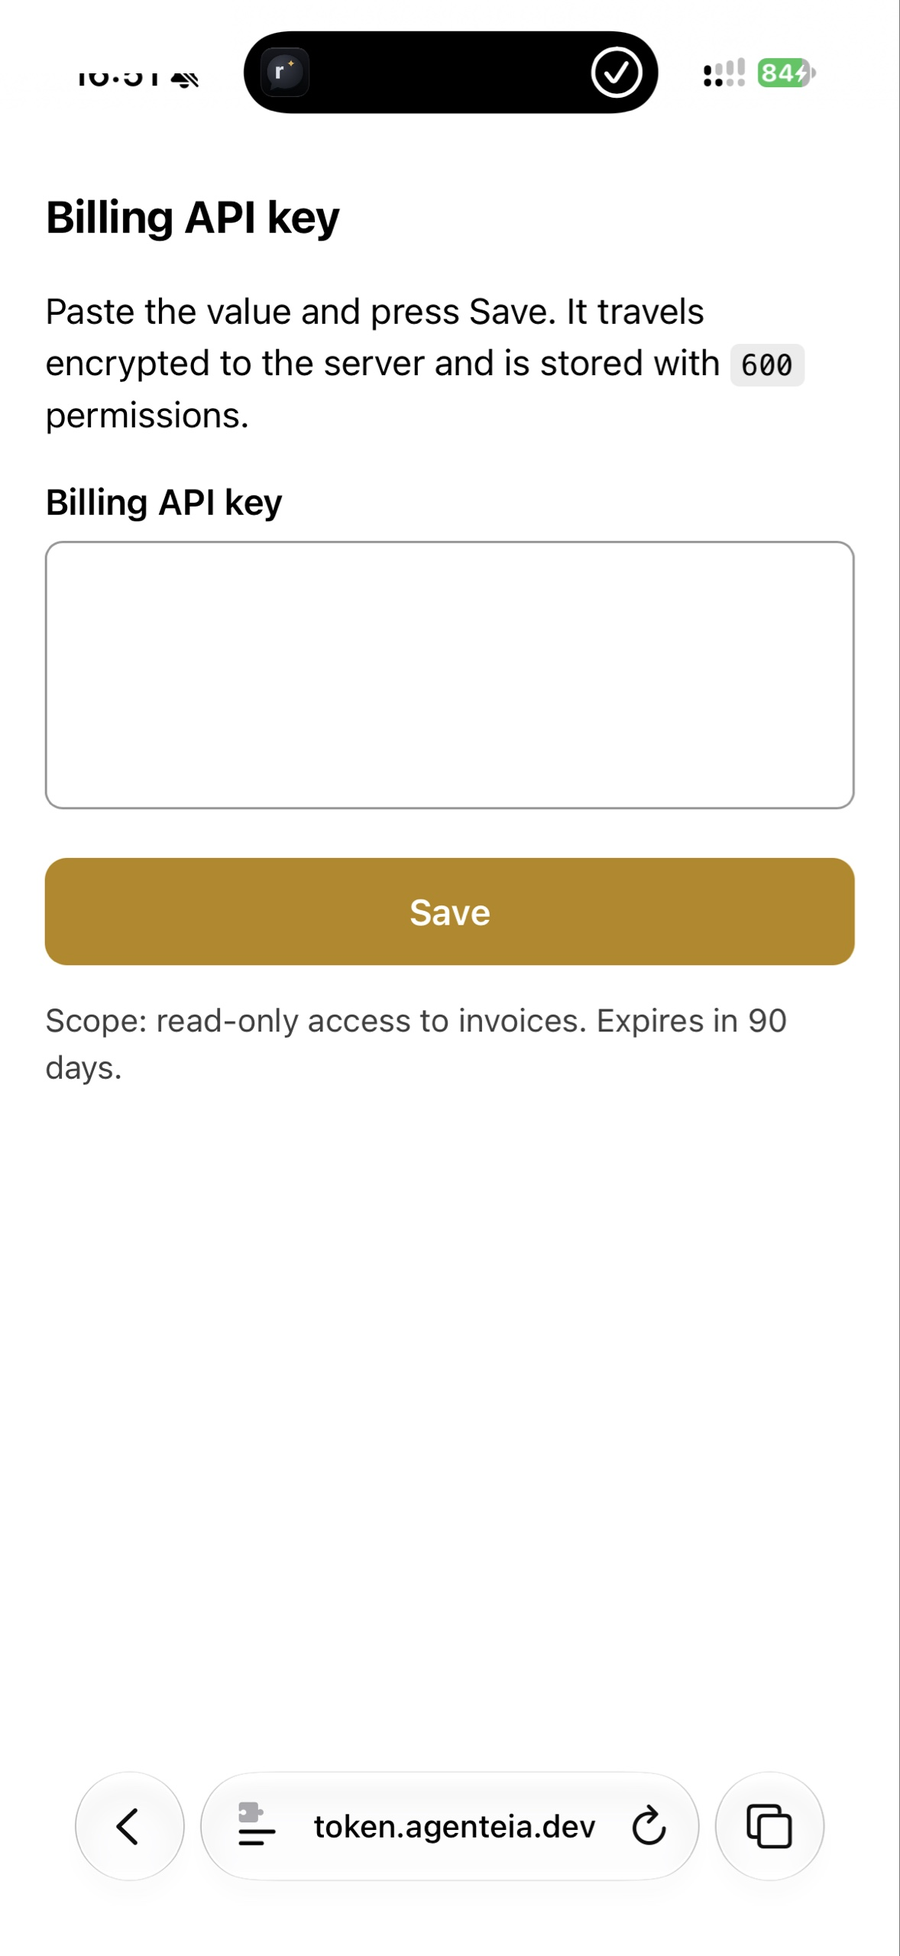
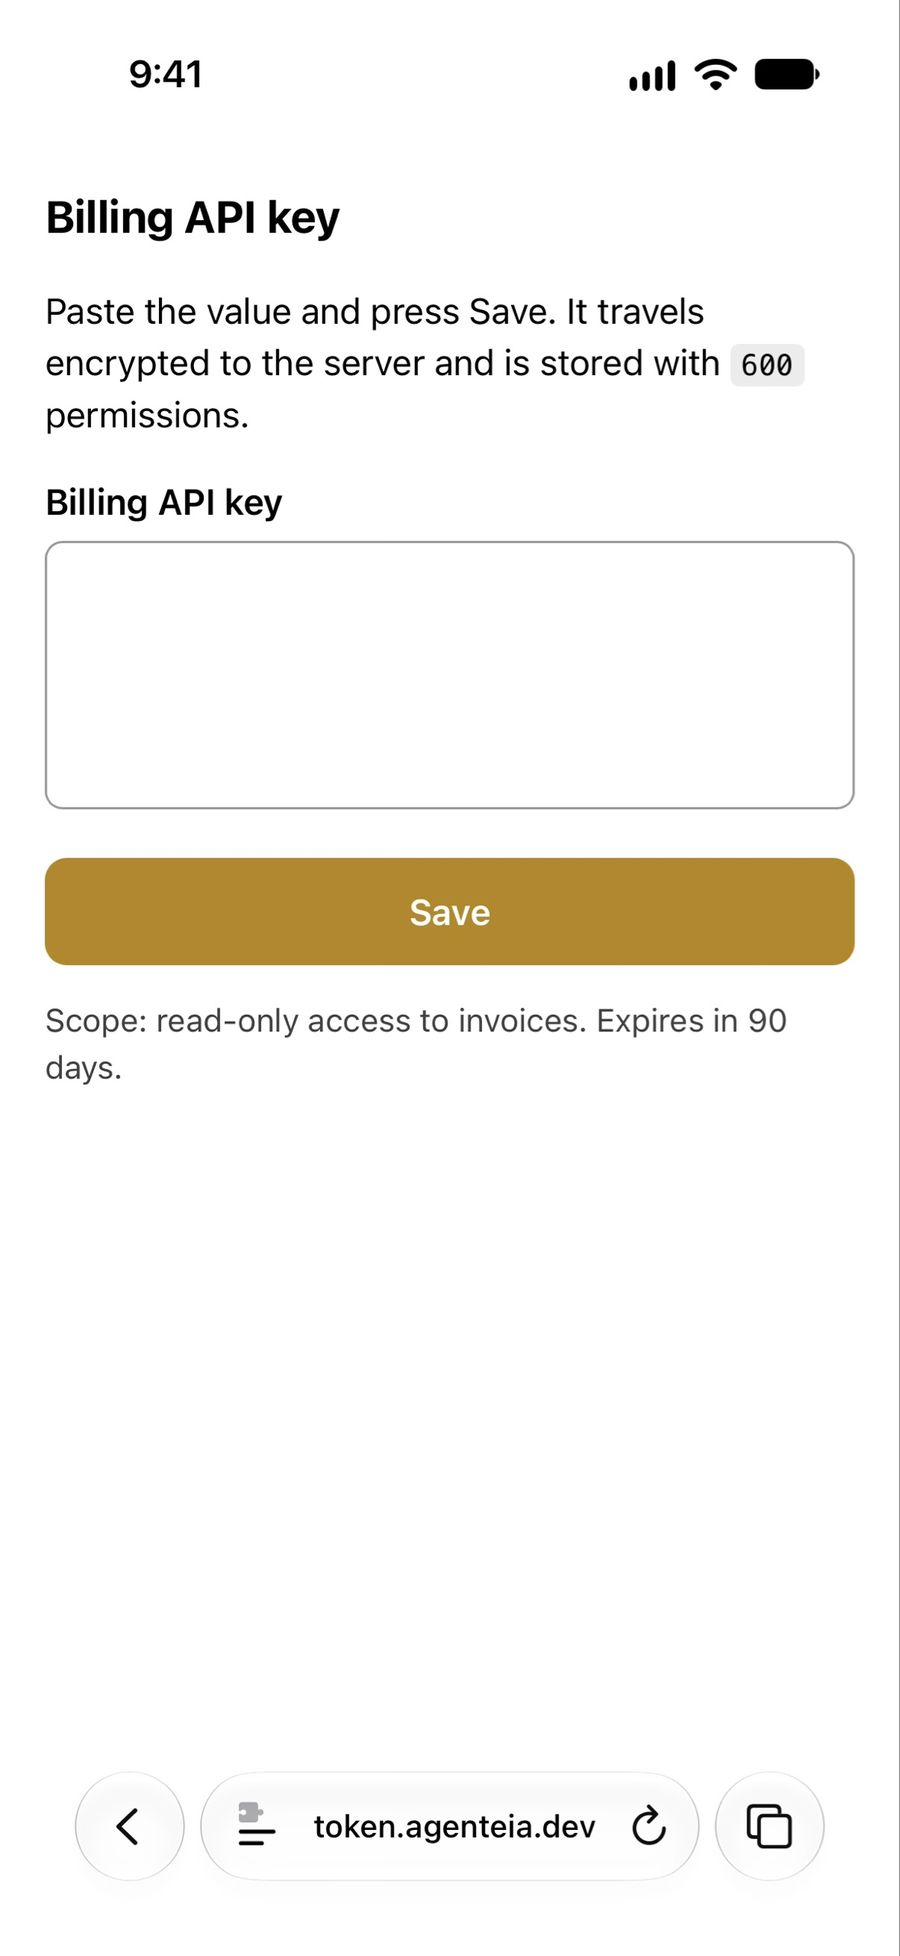
README: capturas definitivas retocadas y enlaces del autor
Sustituye docs/form-{en,es}.png por las versiones retocadas (900 px de ancho,
sin metadatos). Anade la seccion Author con blog, LinkedIn, Instagram y Threads.

Changed region(s): [[0.2489, 0.0, 0.7467, 0.0624], [0.7778, 0.0312, 0.9022, 0.0624], [0.0933, 0.0312, 0.2178, 0.0624]]

diff --git a/README.md b/README.md
@@ -155,3 +155,12 @@ misconfiguration. A `302` means Access is asking for identification, which is wh
 ## Licence
 
 MIT — original author: Rafael Roa (rafarq).
+
+## Author
+
+Rafael Roa — Technical Architect and Building Engineer, writing about BIM, AI and automation.
+
+- Blog: [rafarq.com](https://rafarq.com)
+- LinkedIn: [in/rafaroa](https://www.linkedin.com/in/rafaroa)
+- Instagram: [@r4f4r04](https://www.instagram.com/r4f4r04)
+- Threads: [@r4f4r04](https://www.threads.net/@r4f4r04)
